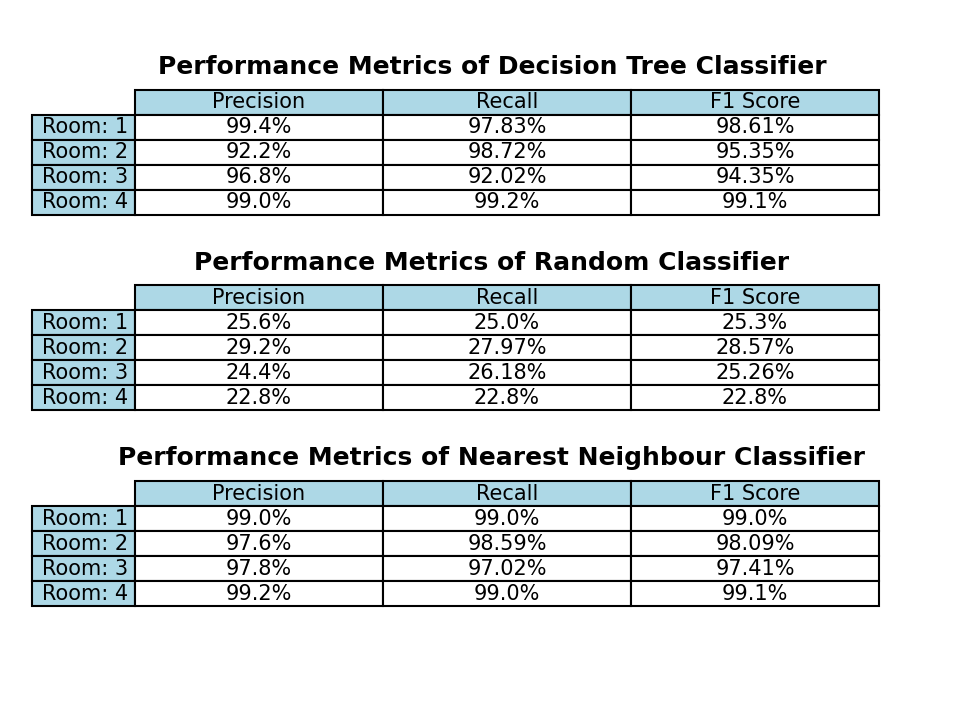
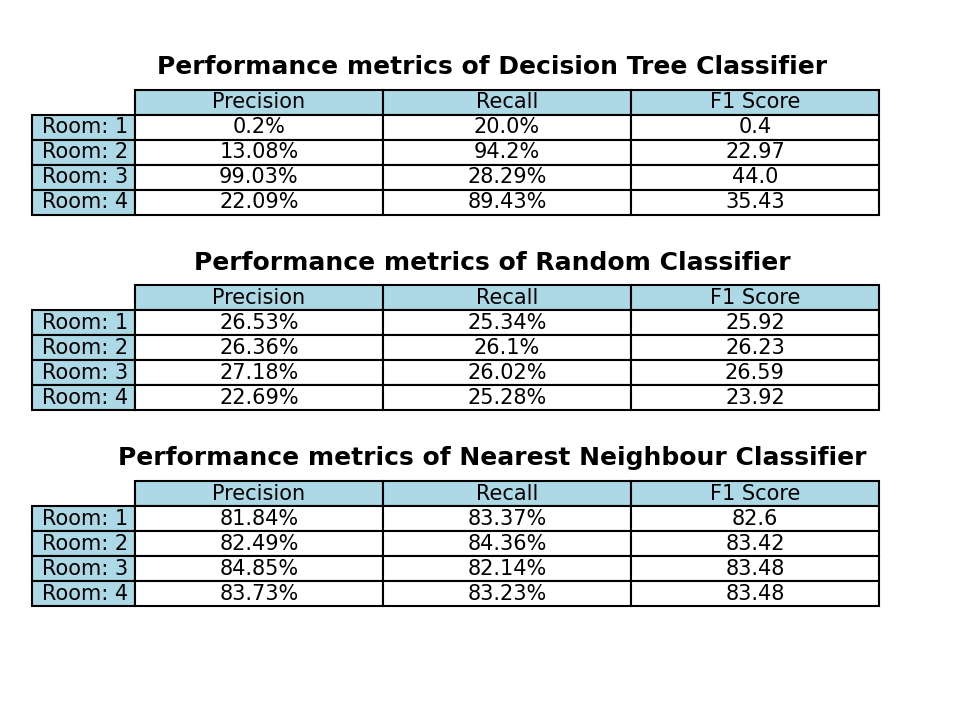
fixing merge stuff

diff --git a/Testbenches.py b/Testbenches.py
@@ -135,7 +135,7 @@ class Model_Comparison_TB():
                             confusion[name][row_index][col_index] += cell
                             #confusion[name][row_index][col_index] += cell / num_folds
 
-        if(0):
+        if(1):
             for name, matrix in confusion.items():     
                 for rowIndex, row in enumerate(matrix):
                     for colIndex, cell in enumerate(row):
@@ -206,7 +206,10 @@ class Model_Comparison_TB():
                     
                     
             for model in self.models:
-                instance = model(self.dataset, train_given = np.array(train_set), test_given = np.array(test_set))
+                if model == Decision_Tree_Classifier.Tree:
+                    instance = model(self.dataset, self.tree_depth, train_given = np.array(train_set), test_given = np.array(test_set))
+                else:
+                    instance = model(self.dataset, train_given = np.array(train_set), test_given = np.array(test_set))
 
                 success = instance.evaluate_internal()
                 
@@ -236,9 +239,10 @@ class Model_Comparison_TB():
 
         
         fig, ax = plt.subplots(len(self.models), 1, figsize=(12, 4))
-        
+        self.global_Error()
         plotNum = 0
         for model, matrix in self.confusion.items():
+            
             col_labs = ["Predicted Room: {}".format(x) for x in range(1, len(matrix[0]) + 1)] 
             row_labs = ["Actually Room: {}".format(x) for x in range(1, len(matrix[0]) + 1)] 
 
@@ -254,7 +258,6 @@ class Model_Comparison_TB():
                 loc ='upper left')         
             
             ax[plotNum].set_title("Confusion Matrix of {a} over {c} folds with Global Error {b}%".format(a=model, b= round((1 - self.global_error[model]) * 100, 2), c=self.num_folds ), fontweight ="bold") 
-            ax[plotNum].set_title("Confusion Matrix of " + model, fontweight ="bold") 
             
             plotNum += 1
             
@@ -778,7 +781,7 @@ def confusion_matrix(actuals, predictions, class_labels=None):
   if class_labels is None:
       class_labels = np.unique(np.concatenate((actuals, predictions)))
 
-  confusion = np.zeros((len(class_labels), len(class_labels)), dtype=int)
+  confusion = np.zeros((len(class_labels), len(class_labels)), dtype=float)
 
      
 
